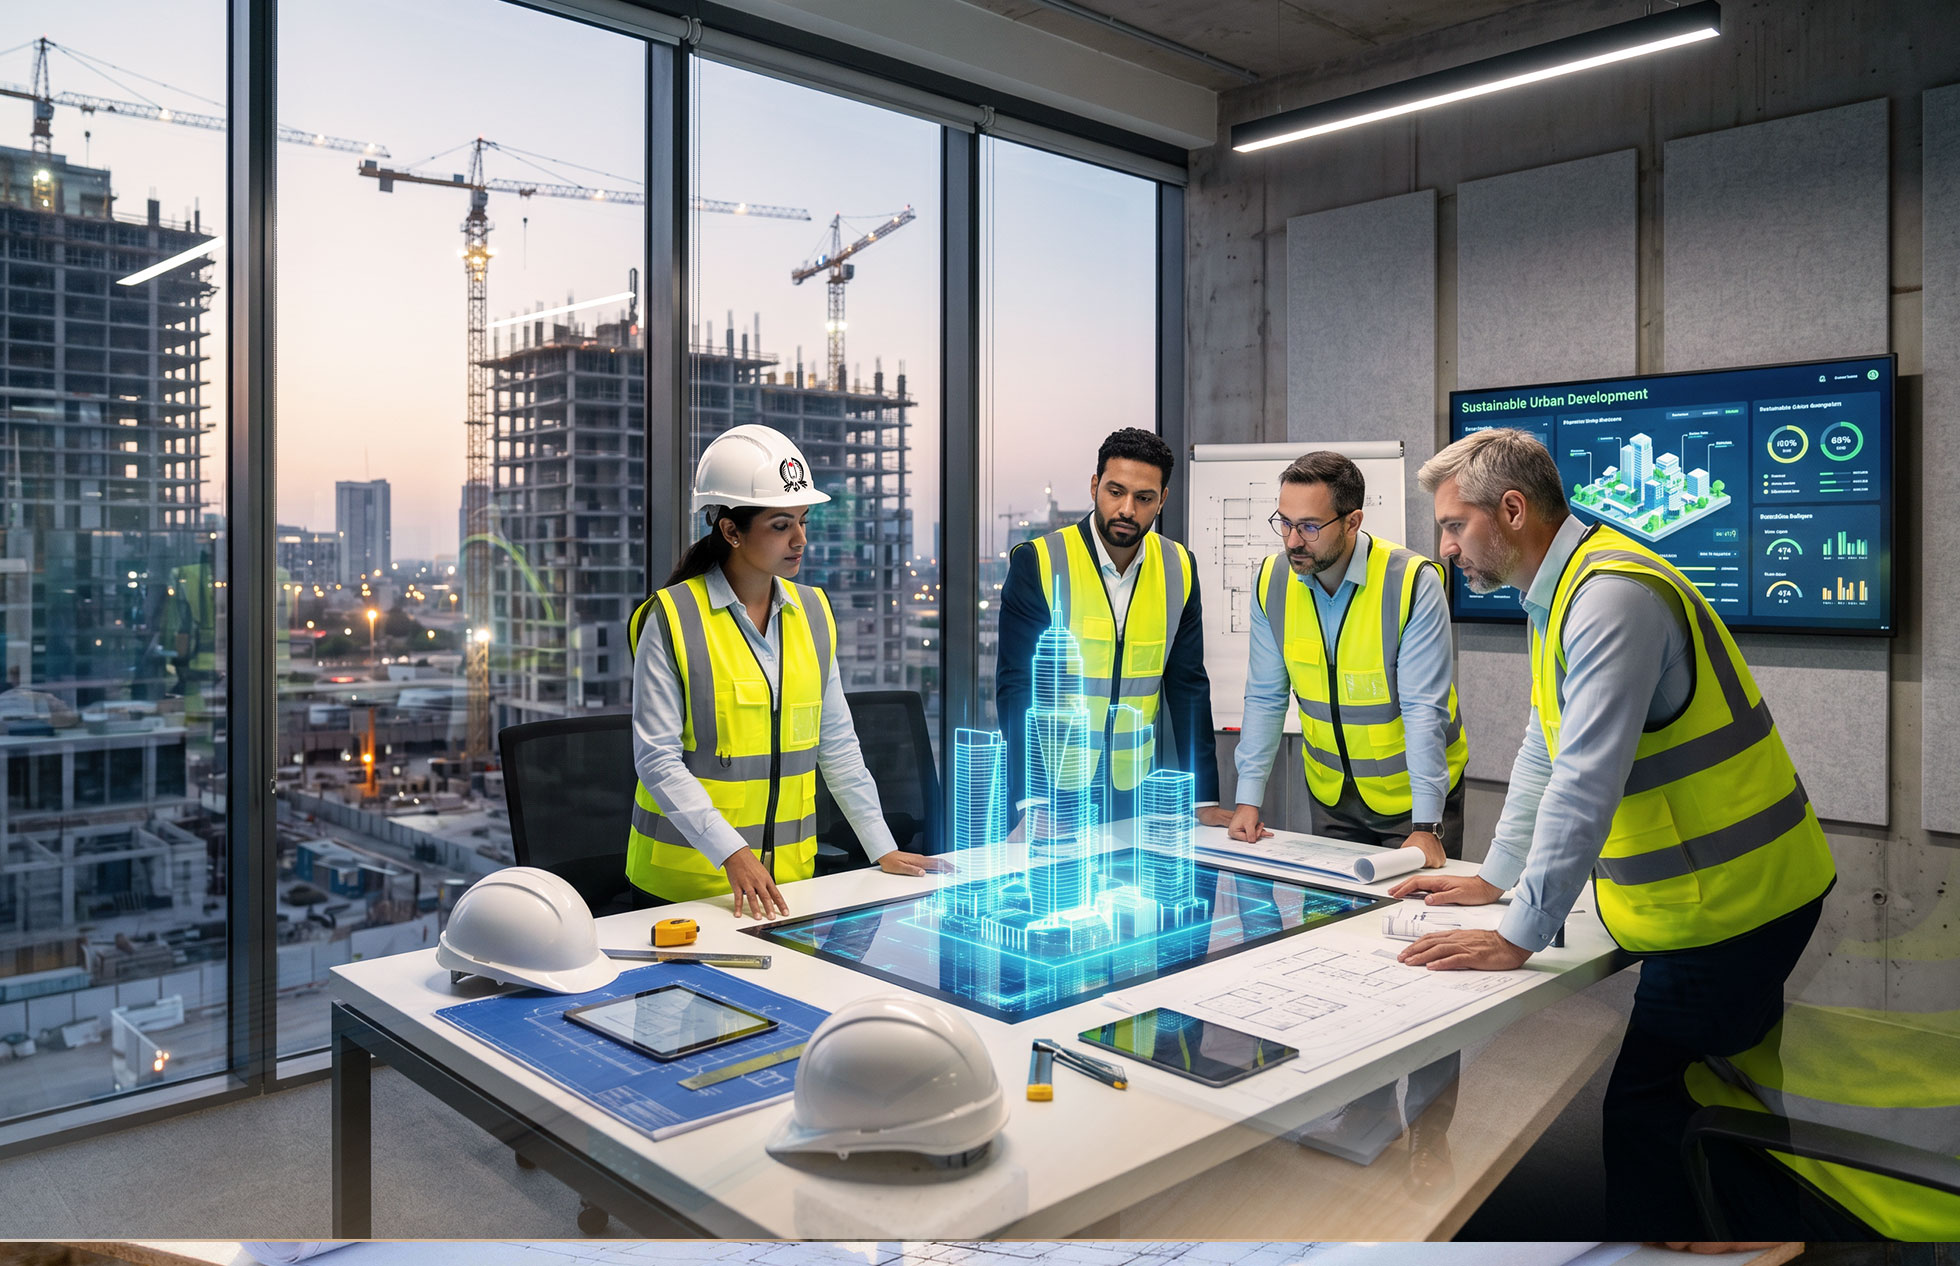
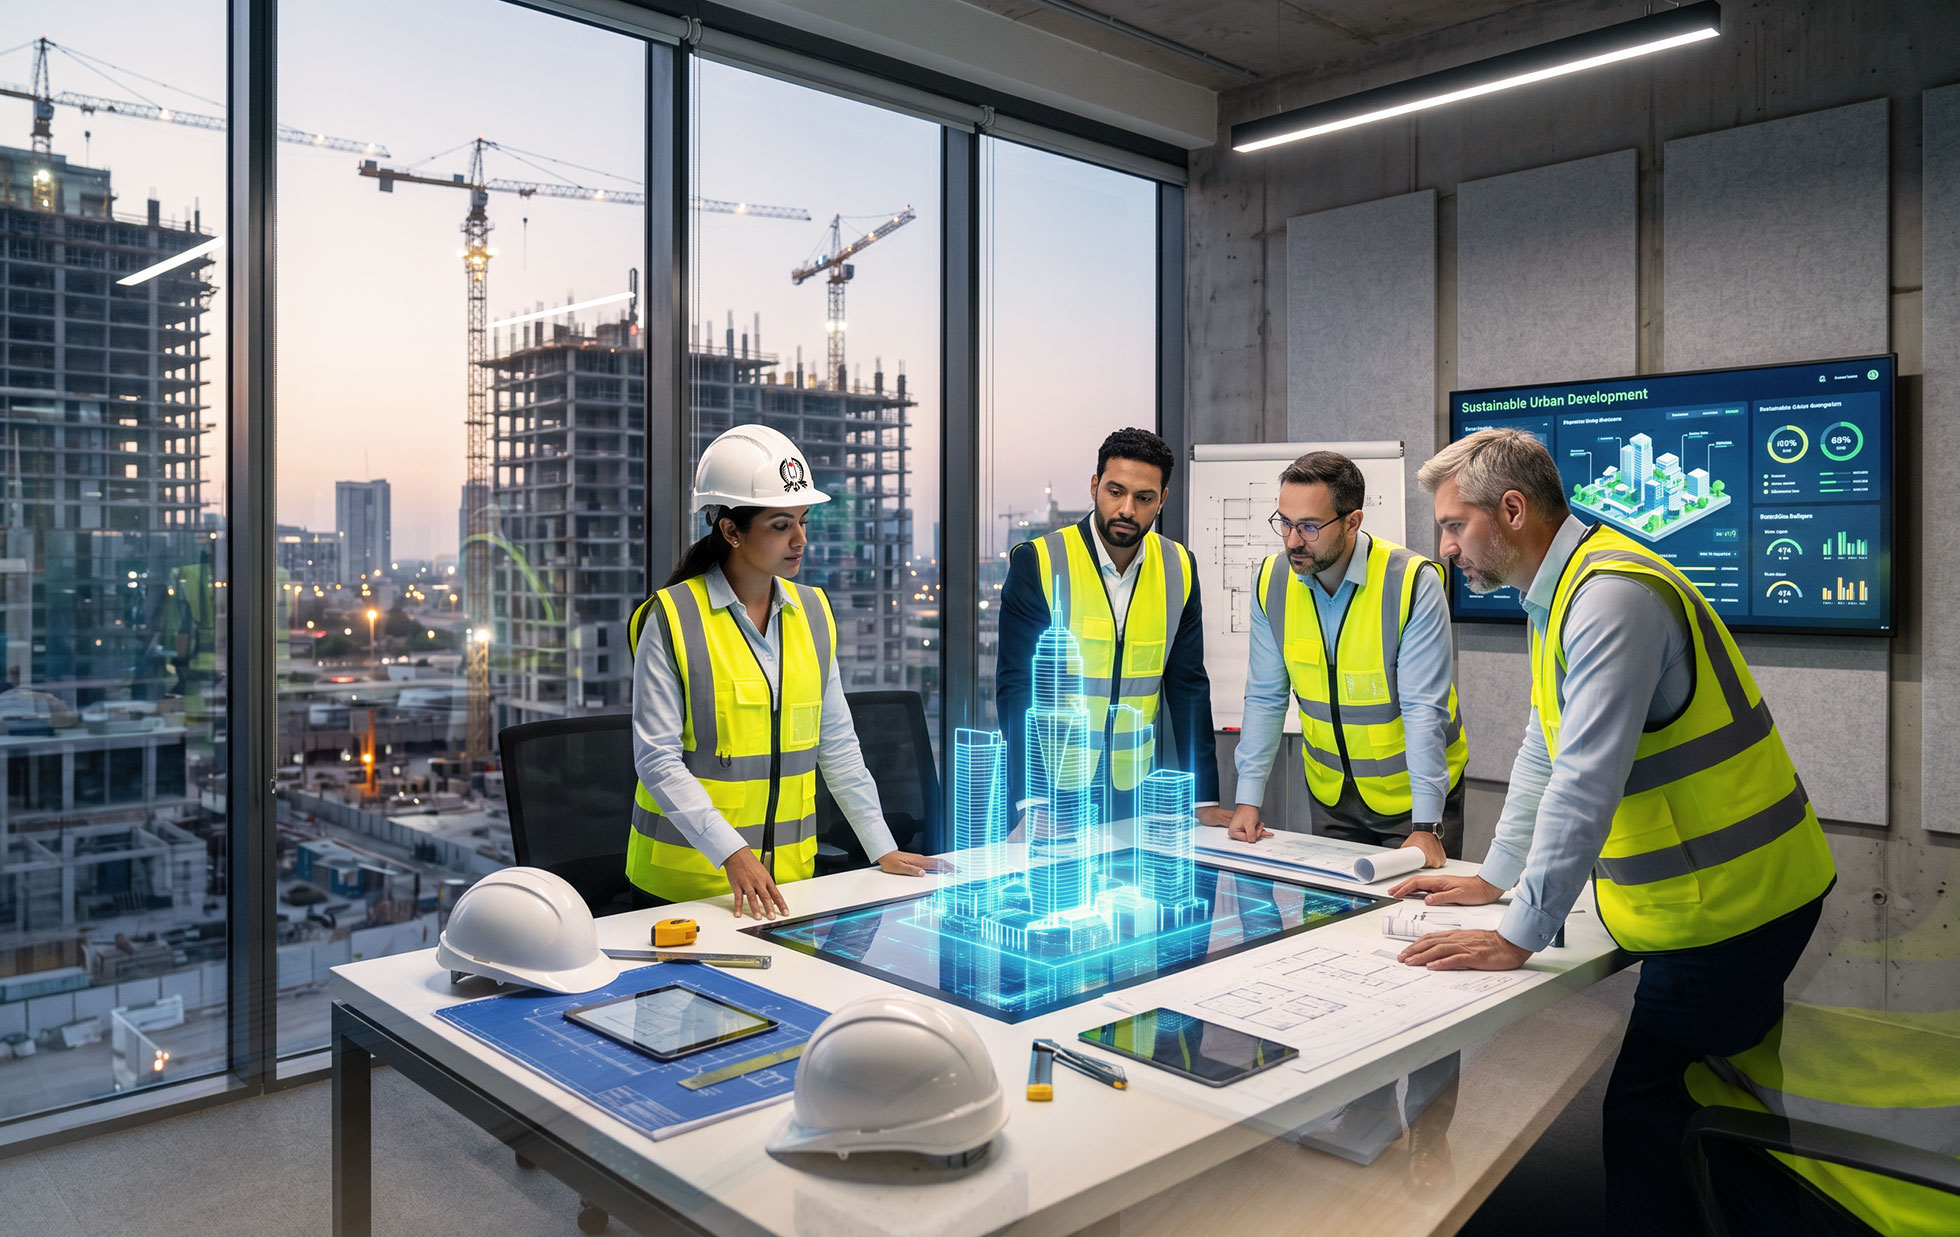
fix: review based changes

diff --git a/app/components/client/home/sections/OurProjects.tsx b/app/components/client/home/sections/OurProjects.tsx
@@ -16,7 +16,7 @@ export default function OurProjects() {
   return (
     <section className="py-[60px] md:py-120 3xl:py-150 overflow-hidden">
       <div className="container">
-        <div className="flex flex-col lg:flex-row justify-between gap-y-[20px] md:gap-y-[30px] mb-40">
+        <div className="flex flex-col lg:flex-row gap-y-[20px] md:gap-y-[30px] mb-40">
           <div>
             <SectionLabel title={ourProjectsData.label} />
           </div>
@@ -56,7 +56,7 @@ export default function OurProjects() {
           className="!overflow-visible"
         >
           {ourProjectsData.projects.map((project, index) => {
-            const isOdd = index % 2 === 0;
+            // const isOdd = index % 2 === 0;
             return (
               <SwiperSlide className="group" key={index}>
                 <motion.div
@@ -67,11 +67,12 @@ export default function OurProjects() {
                 >
                   <Link href={project.href}>
                     <div
-                      className={`relative w-full rounded-[10px] overflow-hidden ${
-                        isOdd
-                          ? "h-[315px] sm:h-[350px] md:h-[380px] xl:h-[380px] 3xl:h-[506px]"
-                          : "h-[315px] sm:h-[350px] md:h-[380px] xl:h-[270px] 3xl:h-[386px]"
-                      }`}
+                      className={`relative w-full rounded-[10px] overflow-hidden h-[315px] sm:h-[350px] md:h-[380px] xl:h-[380px] 3xl:h-[506px]`}
+                      //    ${
+                      //   isOdd
+                      //     ? "h-[315px] sm:h-[350px] md:h-[380px] xl:h-[380px] 3xl:h-[506px]"
+                      //     : "h-[315px] sm:h-[350px] md:h-[380px] xl:h-[270px] 3xl:h-[386px]"
+                      // }`}
                     >
                       <Image
                         src={project.image}
@@ -80,7 +81,7 @@ export default function OurProjects() {
                         className="object-cover object-top group-hover:scale-105 transition-all duration-700"
                       />
                     </div>
-                    <h3 className="mt-[15px] xl:mt-20 text-subtitle text-secondary uppercase mb-[5px] xl:mb-0">
+                    <h3 className="mt-[15px] xl:mt-20 text-subtitle text-secondary uppercase mb-[5px] xl:mb-0 line-clamp-1">
                       {project.title}
                     </h3>
                     <p className="text-description text-description-color">

diff --git a/app/components/client/home/sections/Capabilities.tsx b/app/components/client/home/sections/Capabilities.tsx
@@ -56,7 +56,7 @@ const CoreCapabilities = () => {
   return (
     <section className="py-[60px] md:py-120 3xl:py-150 overflow-hidden">
       <div className="container">
-        <div className="flex flex-col lg:flex-row justify-between gap-y-[20px] md:gap-y-[30px] mb-40">
+        <div className="flex flex-col lg:flex-row 3xl:justify-between gap-y-[20px] md:gap-y-[30px] mb-40">
           <div>
             <SectionLabel title={coreCapabilitiesSectionData.label} />
           </div>
@@ -80,7 +80,7 @@ const CoreCapabilities = () => {
 
         <div
           ref={containerRef}
-          className="hidden xl:flex items-center gap-20 overflow-hidden xl:h-[400px] 3xl:h-[633px]"
+          className="hidden xl:flex items-center gap-20 overflow-hidden xl:h-[450px] 3xl:h-[633px]"
         >
           {capabilityCards.map((card) => {
             const isActive = card.id === activeId;
@@ -103,8 +103,8 @@ const CoreCapabilities = () => {
                   ${flexBasis === undefined ? (isActive ? "w-full xl:w-[540px] 3xl:w-[979px]" : "flex-1") : ""}
                   ${
                     isActive
-                      ? "xl:h-[400px] 3xl:h-[633px]"
-                      : "xl:h-[332px] 3xl:h-[529px]"
+                      ? "xl:h-[450px] 3xl:h-[633px]"
+                      : "xl:h-[342px] 3xl:h-[529px]"
                   }
                 `}
               >
@@ -167,7 +167,7 @@ const CoreCapabilities = () => {
                     <div
                       className={`overflow-hidden transition-all duration-700 ease-in-out ${
                         isActive
-                          ? "max-h-[200px] opacity-100"
+                          ? "max-h-[300px] opacity-100"
                           : "max-h-0 opacity-0"
                       }`}
                     >
@@ -225,7 +225,7 @@ const CoreCapabilities = () => {
           >
             {capabilityCards.map((card) => (
               <SwiperSlide key={card.id}>
-                <div className="relative rounded-[10px] overflow-hidden h-[332px] md:h-[380px] lg:h-[410px]">
+                <div className="relative rounded-[10px] overflow-hidden h-[342px] md:h-[380px] lg:h-[410px]">
                   <div
                     className="absolute inset-0 z-10"
                     style={{

diff --git a/app/components/client/layout/Footer.tsx b/app/components/client/layout/Footer.tsx
@@ -76,16 +76,8 @@ export default function Footer() {
                   <span className="font-tasa font-bold text-[10px] leading-none sm:text-subtitle text-secondary">
                     ADDRESS
                   </span>
-                  <p className="text-description-2 text-description-color 3xl:whitespace-nowrap flex gap-[10px] hover:text-primary transition-colors duration-300">
-                    {address.value.map((item, index) => (
-                      <Link
-                        href={address.href}
-                        target="_blank"
-                        rel="noopener noreferrer"
-                        key={index}
-                        dangerouslySetInnerHTML={{ __html: item }}
-                      />
-                    ))}
+                  <p className="text-description-2 text-description-color flex gap-[10px] hover:text-primary transition-colors duration-300 text-wrap max-w-[40ch]">
+                    {address.value}
                   </p>
                 </div>
               </div>

diff --git a/app/components/client/home/data.ts b/app/components/client/home/data.ts
@@ -249,7 +249,8 @@ export const contactSectionData = {
     {
       icon: "/assets/images/home/contact/icons/office.svg",
       title: "OFFICE",
-      value: `Al Basti <span class="font-tasa">&amp;</span> Muktha LLC <span class="inline-block h-3.5 md:h-[20px] w-px md:w-[2px] mx-[5px] bg-white/60 align-middle"></span> P.O. Box 2393, Dubai (U.A.E.)`,
+      // value: `Al Basti <span class="font-tasa">&amp;</span> Muktha LLC <span class="inline-block h-3.5 md:h-[20px] w-px md:w-[2px] mx-[5px] bg-white/60 align-middle"></span> P.O. Box 2393, Dubai (U.A.E.)`,
+      value: `P.O. Box 2393, Al Addiyar Building, Ground Floor, Sheikh Zayed Road, Dubai, U.A.E.`,
       href: "https://maps.app.goo.gl/5tCAML4NaT5EDX4Y6",
     },
     {
@@ -261,8 +262,8 @@ export const contactSectionData = {
     {
       icon: "/assets/images/home/contact/icons/mail.svg",
       title: "E-MAIL",
-      value: "[email redacted]",
-      href: "mailto:[EMAIL_ADDRESS]",
+      value: "[email redacted]",
+      href: "mailto:[email redacted]",
     },
   ],
 };

diff --git a/app/components/client/layout/data.ts b/app/components/client/layout/data.ts
@@ -15,7 +15,8 @@ export const footerData = {
 
   address: {
     icon: "/assets/icons/footer/location.svg",
-    value: [`Al Basti <span class="font-tasa">&amp;</span> Muktha LLC`, `P.O. Box 2393, Dubai (U.A.E.)`],
+    // value: [`Al Basti <span class="font-tasa">&amp;</span> Muktha LLC`, `P.O. Box 2393, Dubai (U.A.E.)`],
+    value: `P.O. Box 2393, Al Addiyar Building, Ground Floor, Sheikh Zayed Road, Dubai, U.A.E.`,
     href: "https://maps.app.goo.gl/5tCAML4NaT5EDX4Y6",
   },
 
@@ -29,8 +30,8 @@ export const footerData = {
   email: {
     icon: "/assets/icons/footer/mail.svg",
     label: "EMAIL",
-    value: "[email redacted]",
-    href: "mailto:[email redacted]",
+    value: "[email redacted]",
+    href: "mailto:[email redacted]",
   },
 
   navLinks: [

diff --git a/app/components/client/home/sections/Sectors.tsx b/app/components/client/home/sections/Sectors.tsx
@@ -120,7 +120,7 @@ export default function Sectors() {
                 alt={active.title}
                 width={150}
                 height={150}
-                className="pointer-events-none"
+                className="pointer-events-none invert brightness-0"
               />
             </div>
             <h3 className="text-white text-subtitle-2 mb-[10px] uppercase">
@@ -185,7 +185,7 @@ export default function Sectors() {
                       alt={tab.title}
                       width={200}
                       height={200}
-                      className="pointer-events-none"
+                      className="pointer-events-none invert brightness-0"
                     />
                   </div>
 

diff --git a/app/components/client/home/sections/AboutUs.tsx b/app/components/client/home/sections/AboutUs.tsx
@@ -14,7 +14,7 @@ export default function AboutSection() {
 
   return (
     <section className="w-full bg-cream-background py-120 3xl:py-140 overflow-hidden">
-      <div className="container flex flex-col lg:flex-row justify-between gap-y-[20px] md:gap-y-[30px]">
+      <div className="container flex flex-col lg:flex-row 3xl:justify-between gap-y-[20px] md:gap-y-[30px]">
         {/* Left: label */}
         <div className="shrink-0">
           <SectionLabel title={label} />

diff --git a/app/components/client/home/sections/Clients.tsx b/app/components/client/home/sections/Clients.tsx
@@ -100,7 +100,7 @@ export default function Clients() {
 
   return (
     <section className="bg-cream-background py-120 3xl:py-140 overflow-hidden">
-      <div className="container flex flex-col lg:flex-row justify-between gap-y-[20px] md:gap-y-[30px] mb-40">
+      <div className="container flex flex-col lg:flex-row gap-y-[20px] md:gap-y-[30px] mb-40">
         <div>
           <SectionLabel title={clientsConsultantsData.label} />
         </div>